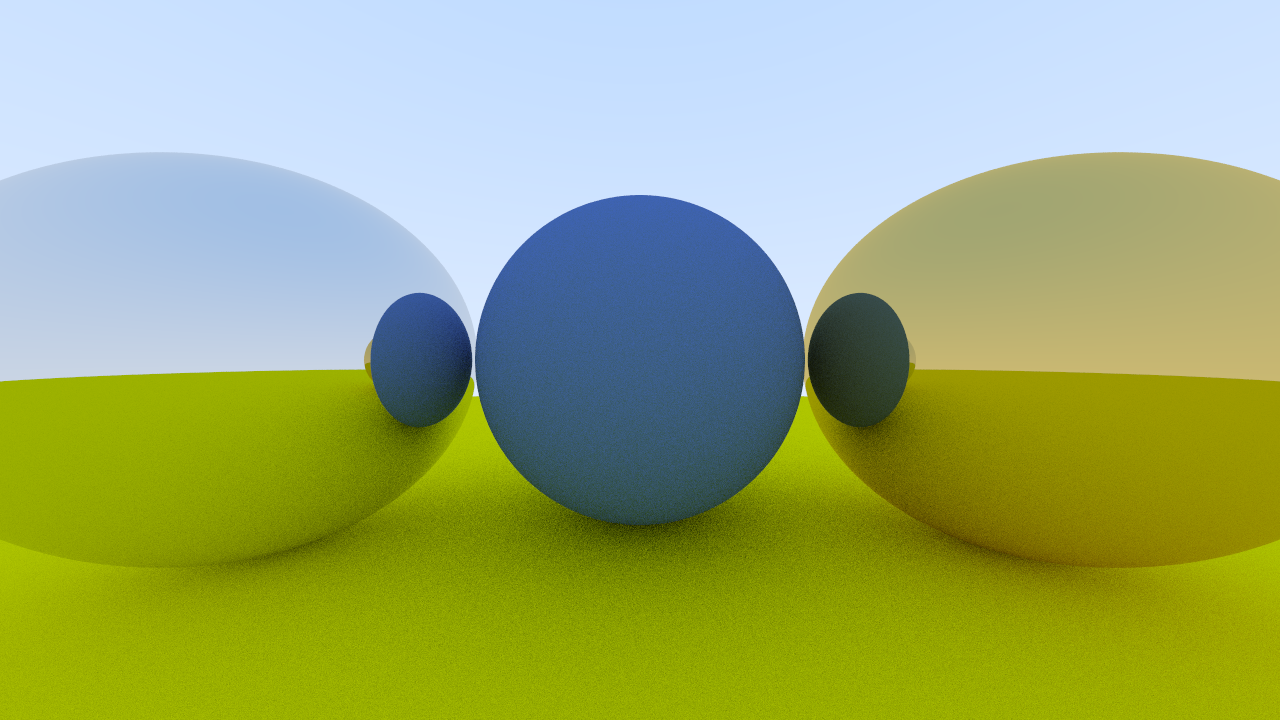
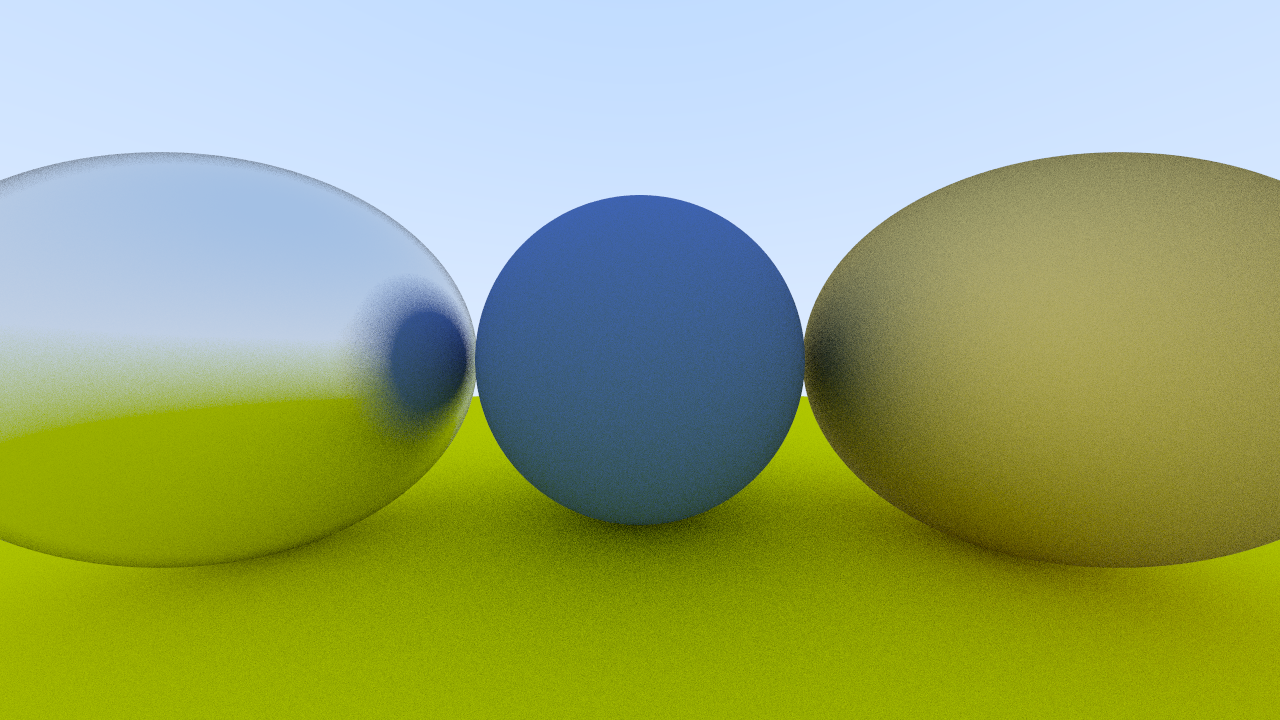
feat: fuzzed metal

diff --git a/src/common/material.h b/src/common/material.h
@@ -51,17 +51,18 @@ private:
 
 
 struct Metal {
-    Metal(const Vec3d& albedo) : albedo(albedo) {}
+    Metal(const Vec3d& albedo, const double fuzz) : albedo(albedo), fuzz(fuzz < 1.0 ? fuzz : 1.0) {}
 
     bool scatter(const Ray& ray_in, const HitRecord& hit_rec, Vec3d& attenuation,
         Ray& scattered) const {
         Vec3d reflected = reflect(ray_in.direction(), hit_rec.normal);
-
+        reflected = reflected.normalized() + (fuzz * random_unit_vector());
         scattered = Ray(hit_rec.p, reflected);
         attenuation = albedo;
-        return true;
+        return scattered.direction().dot(hit_rec.normal) > 0.0;
     }
 
 private:
     Vec3d albedo;
+    double fuzz;
 };

diff --git a/utils/use_core.cpp b/utils/use_core.cpp
@@ -33,8 +33,8 @@ int main(int argc, const char* argv[]) {
 
     auto material_ground = std::make_shared<Lambertion>(Vec3d {0.8, 0.8, 0.0});
     auto material_center = std::make_shared<Lambertion>(Vec3d {0.1, 0.2, 0.5});
-    auto material_left = std::make_shared<Metal>(Vec3d {0.8, 0.8, 0.8});
-    auto material_right = std::make_shared<Metal>(Vec3d {0.8, 0.6, 0.2});
+    auto material_left = std::make_shared<Metal>(Vec3d {0.8, 0.8, 0.8}, 0.3);
+    auto material_right = std::make_shared<Metal>(Vec3d {0.8, 0.6, 0.2}, 1.0);
 
     // World
     HittableList world;
